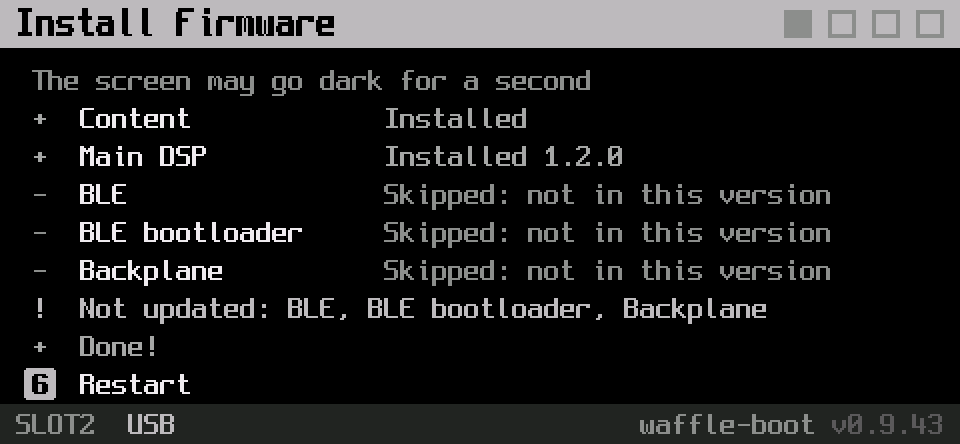
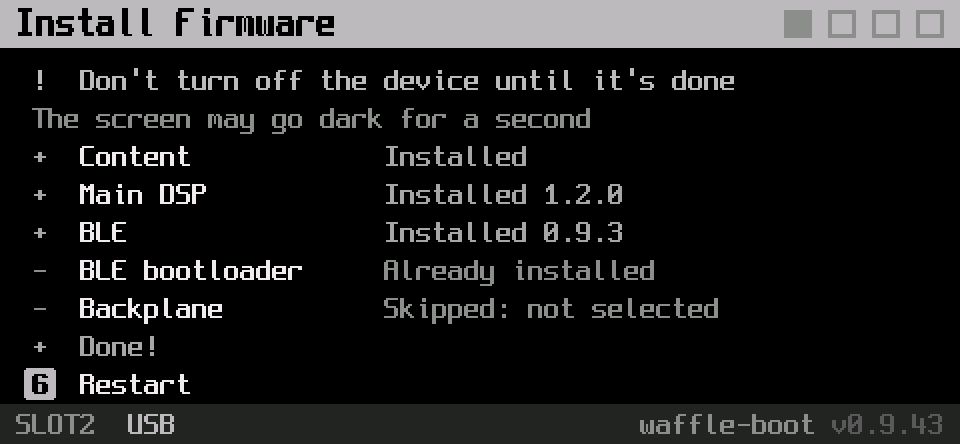
install: the BLE, BLE bootloader and backplane steps switched on; no step is switched off in this version (S-11.073's mechanism kept and tested with explicit masks); the selection offers them, an unasked run includes them; a backplane step without the PSoC unlock fails before entry; model, vectors, 

diff --git a/tests/unit/test_board_install.c b/tests/unit/test_board_install.c
@@ -1742,9 +1742,7 @@ static void test_whole_hold(void)
 	struct s11_install_result res;
 
 	t_case = "whole: hold";
-	CHECK_EQ(opxy_steps_off(), (uint8_t)(S11_STEP_BIT(S11_STEP_BLE) |
-					     S11_STEP_BIT(S11_STEP_BLE_BOOTLOADER) |
-					     S11_STEP_BIT(S11_STEP_KEYBOARD)));
+	CHECK_EQ(opxy_steps_off(), 0u);		/* S-11.073: none */
 	whole_setup();
 	ks.ev[0] = hold_5s;
 	memcpy(flash_before, flash_mem, sizeof flash_before);
@@ -1764,29 +1762,31 @@ static void test_whole_hold(void)
 	CHECK(ks.end_ms[0] - ks.start_ms[0] >= 6000u &&
 	      ks.end_ms[0] - ks.start_ms[0] < 6500u);
 	CHECK(cdc_has("1 Install selected  Nothing selected"));
-	CHECK(cdc_has("4 BLE  Not in this version") &&
-	      cdc_has("5 BLE bootloader  Not in this version") &&
-	      cdc_has("6 Backplane  Not in this version"));
+	/* the coprocessors' versions not reported: the package's alone */
+	CHECK(cdc_has("4 BLE  1234.0.0  No") &&
+	      cdc_has("5 BLE bootloader  1234.0.0  No") &&
+	      cdc_has("6 Backplane  1234.0.0  No") && !cdc_has("Not in this version"));
 	/* the running bootloader's version, then the package's (no version
 	 * file: S-11.036's) */
 	CHECK(cdc_has("7 Bootloader  0.9.40 > 1234.0.0  No") &&
 	      cdc_has("7 Bootloader  0.9.40 > 1234.0.0  Yes"));
 	CHECK(cdc_has("Slot 2 is replaced. Recovery remains."));
 	CHECK(cdc_has("install: installing by a 5 s hold, steps selected 0x04"));
-	/* the switched-off steps: Skipped, each after its own report */
-	CHECK(cdc_has("[skipped] ble: switched off") &&
-	      cdc_has("[skipped] ble bootloader: switched off") &&
-	      cdc_has("[skipped] backplane: switched off"));
-	CHECK(cdc_at("[ble]") < cdc_at("[skipped] ble: switched off") &&
-	      cdc_at("[skipped] ble: switched off") < cdc_at("[ble bootloader]") &&
-	      cdc_at("[backplane]") < cdc_at("[skipped] backplane: switched off"));
+	/* the parts left at No: Skipped, each after its own report */
+	CHECK(cdc_has("[skipped] ble: not selected") &&
+	      cdc_has("[skipped] ble bootloader: not selected") &&
+	      cdc_has("[skipped] backplane: not selected"));
+	CHECK(cdc_at("[ble]") < cdc_at("[skipped] ble: not selected") &&
+	      cdc_at("[skipped] ble: not selected") < cdc_at("[ble bootloader]") &&
+	      cdc_at("[backplane]") < cdc_at("[skipped] backplane: not selected"));
 	CHECK(!cdc_has("[skipped] bootloader") && !cdc_has("spiboot") &&
 	      !cdc_has("install: first stage") && !cdc_has("First stage"));
 	CHECK(!cdc_has("no PSoC unlock") && !cdc_has("not in update mode"));
-	CHECK(cdc_has("Not updated: BLE, BLE bootloader, Backplane"));
+	CHECK(!cdc_has("Not updated:"));	/* S-15.115: left out by choice */
 	CHECK(cdc_has("Done!"));
-	/* nothing to the Nordic but the run's queries: no DFU entry (0x0D
-	 * 0xEE), no transfer; nothing for the PSoC's bootloader (0xEE) */
+	/* S-11.061: no Nordic step selected: nothing to the Nordic but the
+	 * run's queries, no DFU entry (0x0D 0xEE), no transfer; nothing for
+	 * the PSoC's bootloader (0xEE) */
 	CHECK(!frame_on(nordic_wire, nordic_n, 0x0Du, 0xEE));
 	CHECK(!frame_on(wire, wire_n, 0xEEu, -1));
 	whole_end();
@@ -1882,8 +1882,9 @@ static void test_whole_timeout(void)
 }
 
 /* Keys that cannot be read (S-07.032 had no reply): no screen, no wait;
- * the run as with nobody to ask: every step but the bootloader, which is
- * Skipped, not selected. */
+ * the run as with nobody to ask: every step but the bootloader, the Nordic
+ * and PSoC steps included. A Nordic that does not enter DFU fails the run
+ * before its first step (S-11.061): nothing is installed. */
 static void test_whole_unreadable(void)
 {
 	struct s11_install_result res;
@@ -1898,13 +1899,14 @@ static void test_whole_unreadable(void)
 	whole_install(true, false, &res);
 	CHECK(cdc_has("install: keys not readable, nothing asked"));
 	CHECK(!cdc_has("1 Install selected"));
-	CHECK(!res.canceled && res.selected == 0u);
+	CHECK(!res.canceled &&
+	      res.selected == (S11_STEP_BIT(S11_STEP_BLE) |
+			       S11_STEP_BIT(S11_STEP_BLE_BOOTLOADER) |
+			       S11_STEP_BIT(S11_STEP_KEYBOARD)));
 	CHECK(slots_untouched());
-	CHECK(cdc_has("[skipped] bootloader: not selected"));
-	/* S-15.115: the step left out is not named among the parts not
-	 * updated */
-	CHECK(cdc_has("Not updated: BLE, BLE bootloader, Backplane"));
-	CHECK(res.run.end == S11_RUN_NOTHING_TO_DO);
+	CHECK(frame_on(nordic_wire, nordic_n, 0x0Du, 0xEE));	/* DFU entry asked */
+	CHECK(res.run.end == S11_RUN_FAILED && !cdc_has("[ble]") &&
+	      !cdc_has("[bootloader]") && cdc_has("Upgrade failed."));
 	CHECK(ks.asks == 0u);		/* no key was read for it */
 	CHECK(now_ms() - t0 < 30000u);	/* the run's own waits, no 60 s */
 	whole_end();

diff --git a/tests/oracle/S-11-packages/gen_vectors.py b/tests/oracle/S-11-packages/gen_vectors.py
@@ -932,7 +932,8 @@ def run_rows():
     R = {n: i for i, n in enumerate(m.RESULT_NAMES)}
     # case, content_only, nordic_images, option, results, outcome, nordic_dfu_ok, version_file[, steps_off,
     # selected]; without the last two: every step switched on and selected (S-11.073, S-11.096)
-    on, off, every = (), m.STEPS_OFF, m.SELECTABLE
+    # off: a build with steps 3-5 switched off (S-11.073), as an earlier version had them
+    on, off, every = (), m.SWITCHABLE, m.SELECTABLE
     cases = [
         ('all_ok', 0, 1, 1, ['OK'] * 6 + ['Not found'], 'done', 1, 1),
         ('normal_install_skips', 0, 1, 0, ['OK', 'OK', 'Skipped', 'OK', 'OK', 'OK', 'Not found'], 'done', 1, 1),
@@ -953,19 +954,19 @@ def run_rows():
                                    'Not found'], 'done', 1, 1),
         ('content_only_fails', 1, 0, 0, ['Failure'], 'failed', 1, 1),
         ('nordic_no_dfu', 0, 1, 0, [], 'failed', 0, 1),
-        # S-11.073: this version's steps 3-5 switched off. Nordic images present: no DFU entry, so a Nordic
-        # refusal changes nothing; step 6 is reserved and reports Not found
-        ('this_version', 0, 1, 0, ['OK', 'OK', 'Skipped', 'Skipped', 'Skipped', 'Skipped', 'Not found'], 'done', 1,
+        # S-11.073: steps 3-5 switched off. Nordic images present: no DFU entry, so a Nordic refusal changes
+        # nothing; step 6 is reserved and reports Not found
+        ('switched_off', 0, 1, 0, ['OK', 'OK', 'Skipped', 'Skipped', 'Skipped', 'Skipped', 'Not found'], 'done', 1,
          1, off, (0, 1)),
-        ('this_version_nordic_refuses_dfu', 0, 1, 0, ['OK', 'OK', 'Skipped', 'Skipped', 'Skipped', 'Skipped',
+        ('switched_off_nordic_refuses_dfu', 0, 1, 0, ['OK', 'OK', 'Skipped', 'Skipped', 'Skipped', 'Skipped',
                                                        'Not found'], 'done', 0, 1, off, (0, 1)),
-        ('this_version_selected', 0, 1, 1, ['OK', 'OK', 'OK', 'Skipped', 'Skipped', 'Skipped', 'Not found'],
+        ('switched_off_selected', 0, 1, 1, ['OK', 'OK', 'OK', 'Skipped', 'Skipped', 'Skipped', 'Not found'],
          'done', 1, 1, off, (0, 1, 2)),
-        ('this_version_bootloader_not_selected', 0, 1, 1, ['OK', 'OK', 'Skipped', 'Skipped', 'Skipped', 'Skipped',
+        ('switched_off_bootloader_not_selected', 0, 1, 1, ['OK', 'OK', 'Skipped', 'Skipped', 'Skipped', 'Skipped',
                                                             'Not found'], 'done', 1, 1, off, (0, 1)),
-        ('this_version_only_switched_off', 0, 1, 0, ['Not found', 'Not found', 'Not found', 'Skipped', 'Skipped',
+        ('only_switched_off', 0, 1, 0, ['Not found', 'Not found', 'Not found', 'Skipped', 'Skipped',
                                                       'Skipped', 'Not found'], 'nothing to do', 1, 1, off, ()),
-        ('this_version_os_fails', 0, 1, 0, ['OK', 'Internal error'], 'failed', 1, 1, off, (0, 1)),
+        ('switched_off_os_fails', 0, 1, 0, ['OK', 'Internal error'], 'failed', 1, 1, off, (0, 1)),
         # S-11.096: a step not selected reports Skipped; S-11.064: the package version only with the OS
         # installed in this run; S-11.061: the DFU entry only for a selected Nordic step
         ('os_not_selected', 0, 0, 1, ['OK', 'Skipped', 'OK', 'Not found', 'Not found', 'Not found', 'Not found'],

diff --git a/tests/conformance/test_s11.py b/tests/conformance/test_s11.py
@@ -720,7 +720,7 @@ class Runs(unittest.TestCase):
 
     @scenario('S-11/SC-11-SWITCHED-OFF')
     def test_SC_11_SWITCHED_OFF(self):
-        """This version's steps 3-5 switched off (S-11.073). The SC-11-RUN-OK package, option off: no DFU entry,
+        """Steps 3-5 switched off (S-11.073), as a build may have them. The SC-11-RUN-OK package, option off: no DFU entry,
         no boot-slot query, nothing sent to the Nordic or the PSoC; the version read and the exit query made;
         steps 2-5 Skipped with their reasons, step 6 Not found; done, os_version the package's, the coprocessor values unchanged;
         as the model's run. Variants: the Nordic refusing DFU (the same, done); a package of only Nordic and
@@ -743,7 +743,7 @@ class Runs(unittest.TestCase):
         m = model()
         for tag, zz, dfu in (('off', z, True), ('nodfu', z, False), ('only', only, True), ('os_only', os_only, True)):
             with self.subTest(variant=tag):
-                lg, r = self.check_run(out, tag, staged_of(zz), False, dfu=dfu, steps_off=m.STEPS_OFF, answer=None)
+                lg, r = self.check_run(out, tag, staged_of(zz), False, dfu=dfu, steps_off=(3, 4, 5), answer=None)
                 for e in ('nordic:enter_dfu', 'nordic_slot', 'nordic_send:ble', 'nordic_send:bl0', 'nordic_send:bl1',
                           'psoc_program', 'bootloader_write'):
                     self.assertNotIn(e, lg)
@@ -762,7 +762,7 @@ class Runs(unittest.TestCase):
 
     @scenario('S-11/SC-11-CONFIRM')
     def test_SC_11_CONFIRM(self):
-        """S-11.096, the selection, with this version's steps 3-5 switched off. The SC-11-RUN-OK package
+        """S-11.096, the selection, with steps 3-5 switched off (S-11.073). The SC-11-RUN-OK package
         (TE-signed, a first-stage file carried), option on: asked once before the run's first write, offered
         content, the OS and the bootloader (never a first-stage file, nothing writes it); every step offered
         selected: all written, a return to the factory bootloader; the bootloader left out: Skipped, not
@@ -804,7 +804,7 @@ class Runs(unittest.TestCase):
         s.add('log', name='again/log')
         out = s.run()
         m = model()
-        self.assertEqual(m.STEPS_OFF, (3, 4, 5))
+        self.assertEqual(m.STEPS_OFF, ())
         for tag, zz, opt, a in legs:
             with self.subTest(leg=tag):
                 lg, r = self.check_run(out, tag, staged_of(zz), bool(opt), steps_off=(3, 4, 5), answer=answer(a))

diff --git a/tools/ui_shots.c b/tools/ui_shots.c
@@ -572,8 +572,8 @@ int main(int argc, char **argv)
 	(void)s15_menu_continue(&menu);
 	bad |= shot(d, "continue-restarting");
 
-	/* this version's run: the content and the OS installed, the
-	 * Nordic's and the PSoC's parts switched off (S-11.073) */
+	/* a run done: the content, the OS and the BLE installed, the BLE
+	 * bootloader already installed, the backplane left at No */
 	setup(); boot.reason = 30; start();
 	s15_up_run_start(&menu, S15_RUN_FIRMWARE, "1.2.0", NULL, false);
 	s15_up_step_start(&menu, S15_STEP_CONTENT);
@@ -581,16 +581,14 @@ int main(int argc, char **argv)
 	s15_up_step_start(&menu, S15_STEP_OS);
 	s15_up_step_result(&menu, S15_STEP_OS, S15_RES_OK, "1.2.0", false, NULL);
 	s15_up_step_start(&menu, S15_STEP_BLE);
-	s15_up_step_result(&menu, S15_STEP_BLE, S15_RES_SKIPPED_OFF, NULL, false, NULL);
+	s15_up_step_result(&menu, S15_STEP_BLE, S15_RES_OK, "0.9.3", false, NULL);
 	s15_up_step_start(&menu, S15_STEP_BLE_BOOTLOADER);
-	s15_up_step_result(&menu, S15_STEP_BLE_BOOTLOADER, S15_RES_SKIPPED_OFF, NULL,
+	s15_up_step_result(&menu, S15_STEP_BLE_BOOTLOADER, S15_RES_ALREADY, NULL,
 			   false, NULL);
 	s15_up_step_start(&menu, S15_STEP_KEYBOARD);
-	s15_up_step_result(&menu, S15_STEP_KEYBOARD, S15_RES_SKIPPED_OFF, NULL,
-			   false, NULL);
-	s15_up_run_end(&menu, S15_OUT_DONE,
-		       (1u << S15_STEP_BLE) | (1u << S15_STEP_BLE_BOOTLOADER) |
-		       (1u << S15_STEP_KEYBOARD));
+	s15_up_step_result(&menu, S15_STEP_KEYBOARD, S15_RES_SKIPPED_UNSELECTED,
+			   NULL, false, NULL);
+	s15_up_run_end(&menu, S15_OUT_DONE, 0);
 	bad |= shot(d, "upgrade-done");
 
 	/* S-15.116: the selection, protected writes on (Settings, 2, then 2
@@ -627,8 +625,6 @@ int main(int argc, char **argv)
 		s15_up_select(&menu, &info, &sel, 0);
 		bad |= shot(d, "upgrade-select");
 
-		info.row[S15_STEP_BLE].kind = S15_ROW_OFF;
-		info.row[S15_STEP_BLE_BOOTLOADER].kind = S15_ROW_OFF;
 		info.row[S15_STEP_KEYBOARD].kind = S15_ROW_UP_TO_DATE;
 		s15_select_open(&sel, (uint8_t)(S15_SELECT_BIT(S15_STEP_OS) |
 						S15_SELECT_BIT(S15_STEP_CONTENT) |

diff --git a/tests/oracle/S-02-spi-flash/gen_vectors.py b/tests/oracle/S-02-spi-flash/gen_vectors.py
@@ -621,12 +621,14 @@ COMPONENTS = [
     ("psoc_backplane", False, []),
 ]
 UPGRADE_STATE_AREAS = ["metadata", "metadata_mirror"]   # S-02.049, .057, .064
-SWITCHED_OFF = ["nordic_application", "nordic_bootloader", "psoc_backplane"]   # S-11.073
+# S-11.073: the steps a build may switch off; this version switches none off
+SWITCHABLE = ["nordic_application", "nordic_bootloader", "psoc_backplane"]
 
 
-def install_case(case, package, option, selected=None):
+def install_case(case, package, option, selected=None, switched_off=()):
     """One package case's steps. selected: the components selected on the unit (S-11.096); None: every
-    one. A protected component is selected only with the option on."""
+    one. A protected component is selected only with the option on. switched_off: of SWITCHABLE, the
+    steps a build switched off (S-11.073)."""
     selected = [n for n, _, _ in COMPONENTS] if selected is None else list(selected)
     if not option:
         selected = [n for n in selected if n != "bootloader"]
@@ -636,7 +638,7 @@ def install_case(case, package, option, selected=None):
         if protected and not option:
             steps.append({"component": name, "action": "skip", "report": "skipped", "reason": "option_off",
                           "flash_ops": 0})
-        elif name in SWITCHED_OFF:
+        elif name in switched_off:
             steps.append({"component": name, "action": "skip", "report": "skipped", "reason": "switched_off",
                           "flash_ops": 0})
         elif name not in selected:
@@ -663,6 +665,7 @@ def package_steps():
             install_case("option_off_te", "factory", False),
             install_case("option_on_te", "factory", True),
             install_case("option_on_te_bootloader_not_selected", "factory", True, ("os", "content")),
+            install_case("option_on_switched_off", "waffle-boot", True, switched_off=SWITCHABLE),
         ],
     }
 

diff --git a/tests/unit/test_board_services.c b/tests/unit/test_board_services.c
@@ -2189,17 +2189,16 @@ static void test_install_ops(void)
 	CHECK(!run.record_write(run.ctx, 1u));	/* no slave */
 	CHECK(!step.os_write(step.ctx));
 	CHECK(!step.bootloader_write(step.ctx));
-	/* The board supplies no PSoC unlock (S-07.081), and its backplane
-	 * step is switched off (S-11.073; test_board_install runs it Skipped
-	 * with its image staged). The programmer itself, were the step on,
-	 * fails on the missing unlock as S-07 reports it (why 10), before the
-	 * PSoC's bootloader is asked for (0xEE). */
+	/* The board supplies no PSoC unlock (S-07.081), and no step is
+	 * switched off (S-11.073). The programmer fails on the missing unlock
+	 * as S-07 reports it (why 10), before the PSoC's bootloader is asked
+	 * for (0xEE). */
 	{
 		uint8_t unlock[S07_CY_UNLOCK_LEN];
 
 		CHECK(!opxy_psoc_unlock(unlock));
 	}
-	CHECK((opxy_steps_off() & S11_STEP_BIT(S11_STEP_KEYBOARD)) != 0u);
+	CHECK(opxy_steps_off() == 0u);
 	m.psoc_ops.log = psoc_why;
 	s07_init(&m.psoc, &m.node, S06_LINK_PSOC, &m.psoc_ops);
 	last_why = 0;

diff --git a/tests/conformance/h_s11.c b/tests/conformance/h_s11.c
@@ -82,8 +82,8 @@
  *                            "-" when there is none
  *
  * set KEY VALUE (each 0 or 1 unless stated; the default first):
- *   off 3,4,5 | STEPS | -  the switched-off steps (S-11.073), comma-separated;
- *                         "-" for none. The default is this version's
+ *   off - | STEPS         the switched-off steps (S-11.073), comma-separated;
+ *                         "-" for none, this version's
  *   select unasked | install STEPS | cancel  S-11.096: the answer on the
  *                         unit: none (the keys cannot be read), the steps
  *                         given (comma-separated, "all" or "-"), or a
@@ -495,7 +495,7 @@ static struct {
 	enum s11_answer answer;		/* S-11.096 */
 	uint8_t give;			/* the steps given with an install */
 } cfg = { true, true, true, true, true, true, true, 0, -1, 0, false, 0,
-	  0, 0, 0, 0, 0, 0, -1, "", 0, S11_STEPS_SWITCHABLE,
+	  0, 0, 0, 0, 0, 0, -1, "", 0, 0,
 	  S11_ANSWER_UNASKED, 0 };
 
 static struct {

diff --git a/src/board/opxy_install.c b/src/board/opxy_install.c
@@ -47,9 +47,9 @@ static const bool step_on[S11_STEP_DONE] = {
 	[S11_STEP_CONTENT] = true,
 	[S11_STEP_OS] = true,
 	[S11_STEP_BOOTLOADER] = true,
-	[S11_STEP_BLE] = false,
-	[S11_STEP_BLE_BOOTLOADER] = false,
-	[S11_STEP_KEYBOARD] = false,
+	[S11_STEP_BLE] = true,
+	[S11_STEP_BLE_BOOTLOADER] = true,
+	[S11_STEP_KEYBOARD] = true,
 	[S11_STEP_RESERVED] = true,
 };
 
@@ -753,9 +753,9 @@ static int step_nordic_slot(void *ctx)
 
 /*
  * S-11.071, S-07.080-S-07.085: the staged .cyacd text through the PSoC
- * programmer. The board supplies no PSoC unlock (S-07.081), so the
- * programmer fails the step before entry and reports why; the image is
- * not read for it. The step is switched off (S-11.073).
+ * programmer. Without a PSoC unlock (S-07.081) the programmer fails the
+ * step before entry, sends nothing and reports why; the image is not
+ * read for it.
  */
 static bool step_psoc(void *ctx)
 {

diff --git a/tests/oracle/S-11-packages/s11_model.py b/tests/oracle/S-11-packages/s11_model.py
@@ -37,7 +37,7 @@ STEPS = ['content', 'os', 'bootloader', 'ble', 'ble bootloader', 'keyboard', 're
 RESERVED = 6                 # S-11.057: step 6 does nothing and reports Not found
 PROTECTED = {2}
 SWITCHABLE = (3, 4, 5)       # S-11.073: the steps that can be switched off
-STEPS_OFF = (3, 4, 5)        # S-11.073: the steps this version has switched off
+STEPS_OFF = ()               # S-11.073: the steps this version has switched off: none
 NORDIC_STEPS = (3, 4)
 DONE = 7
 # S-11.096: the steps a selection can hold, and the protected ones it holds only when asked

diff --git a/src/board/opxy_values.c b/src/board/opxy_values.c
@@ -301,9 +301,8 @@ bool opxy_otp_fsn(uint32_t words[4])
 
 /*
  * The PSoC unlock, the six bytes that enter the PSoC's bootloader
- * (S-07.081): this board supplies none. A backplane step that ran would
- * fail before the bootloader is entered and send nothing; the step is
- * switched off (S-11.073).
+ * (S-07.081): this board supplies none. The backplane step then fails
+ * before the bootloader is entered and sends nothing.
  */
 bool opxy_psoc_unlock(uint8_t unlock[S07_CY_UNLOCK_LEN])
 {

diff --git a/wiki/Updating-the-OS.md b/wiki/Updating-the-OS.md
@@ -8,7 +8,7 @@ waffle-boot. To install waffle-boot itself, see [How to Install](How-to-Install)
 | Install a TE firmware package (content and OS) from the boot menu | Tested on one unit |
 | Install waffle-boot | [How to Install](How-to-Install) |
 | Replace waffle-boot in one slot with another waffle-boot build | [How to Recover](How-to-Recover#write-a-slot-from-a-computer) |
-| Update the Bluetooth (BLE) or backplane (PSoC) chips | **Not supported yet.** Those steps show `Skipped: not in this version` |
+| Update the Bluetooth (BLE) chip, its bootloader, or the backplane (PSoC) | **Not tested on a unit.** Choose them on the list as any part. The backplane step needs the PSoC unlock; a build without it fails that step before anything is sent |
 | Return to the factory bootloader | **Not supported yet** |
 | Build a package with your own OS image | Developers: [Building Custom OS Updates (.tfw)](Building-Custom-OS-Updates) |
 | Write an OS image file directly | Developers: Boot menu → Developer menu → 5 ([Test OS](Test-OS#loading-it)) |
@@ -41,9 +41,11 @@ You need a USB cable, a computer, and the firmware package file (its name contai
 
 A part the package does not carry has no row; the others keep their digits. A row shows the installed
 version and the package's (`1.1.4 > 1.1.5`), or the package's alone. A gray row cannot be chosen, and says
-why: `Not in this version`, `Protected writes off` or `Up to date`. A part left at `No` shows
+why: `Protected writes off`, `Up to date` (the BLE, BLE bootloader or backplane version on the unit is the
+package's), or `Not in this version` (a build that switches a step off). A part left at `No` shows
 `Skipped: not selected` and is not touched. The unit asks again at every install; nothing is remembered. If
-the unit cannot read its keys, it shows no list and installs every part it can but the bootloader.
+the unit cannot read its keys, it shows no list and installs every part it can but the bootloader, the BLE and
+backplane parts included.
 
 With **Protected writes** off (the default), the bootloader cannot be chosen: an install writes content and
 the OS only, and never touches the bootloader or the first stage.

diff --git a/wiki/Screen-Style-Guide.md b/wiki/Screen-Style-Guide.md
@@ -317,11 +317,11 @@ newer), and each PNG carries it: after `make bump-version`, redraw them, or
 | <img src="../docs/ui/format.png" width="480" alt="Format Drive"> | <img src="../docs/ui/upgrade-wait.png" width="480" alt="Install Firmware"> |
 | Format Drive | Install Firmware, waiting for a package |
 | <img src="../docs/ui/upgrade-run.png" width="480" alt="Installing"> | <img src="../docs/ui/upgrade-done.png" width="480" alt="Done"> |
-| a run in progress | a run done: the BLE and backplane parts skipped, not in this version |
+| a run in progress | a run done: the BLE installed, its bootloader already installed, the backplane left at `No` |
 | <img src="../docs/ui/upgrade-failed.png" width="480" alt="Failed"> | <img src="../docs/ui/upgrade-select.png" width="480" alt="The parts of a package"> |
 | a run failed | the parts of a package, as the list opens: every row at `No` |
 | <img src="../docs/ui/upgrade-picked.png" width="480" alt="Parts chosen"> | <img src="../docs/ui/upgrade-held.png" width="480" alt="Install selected held"> |
-| two parts at `Yes`, the bootloader among them; rows that cannot be picked | 1 held for 2 of the 5 s |
+| two parts at `Yes`, the bootloader among them; a row that cannot be picked, up to date | 1 held for 2 of the 5 s |
 | <img src="../docs/ui/main-failed.png" width="480" alt="The OS not started"> | <img src="../docs/ui/info-failed.png" width="480" alt="Device Info after it"> |
 | Main Menu: the start failed when the second processor stopped answering | Device Info: the step, the request and where it broke |
 | <img src="../docs/ui/system-lost.png" width="480" alt="System, the slave lost"> | <img src="../docs/ui/upgrade-canceled.png" width="480" alt="Nothing installed"> |
